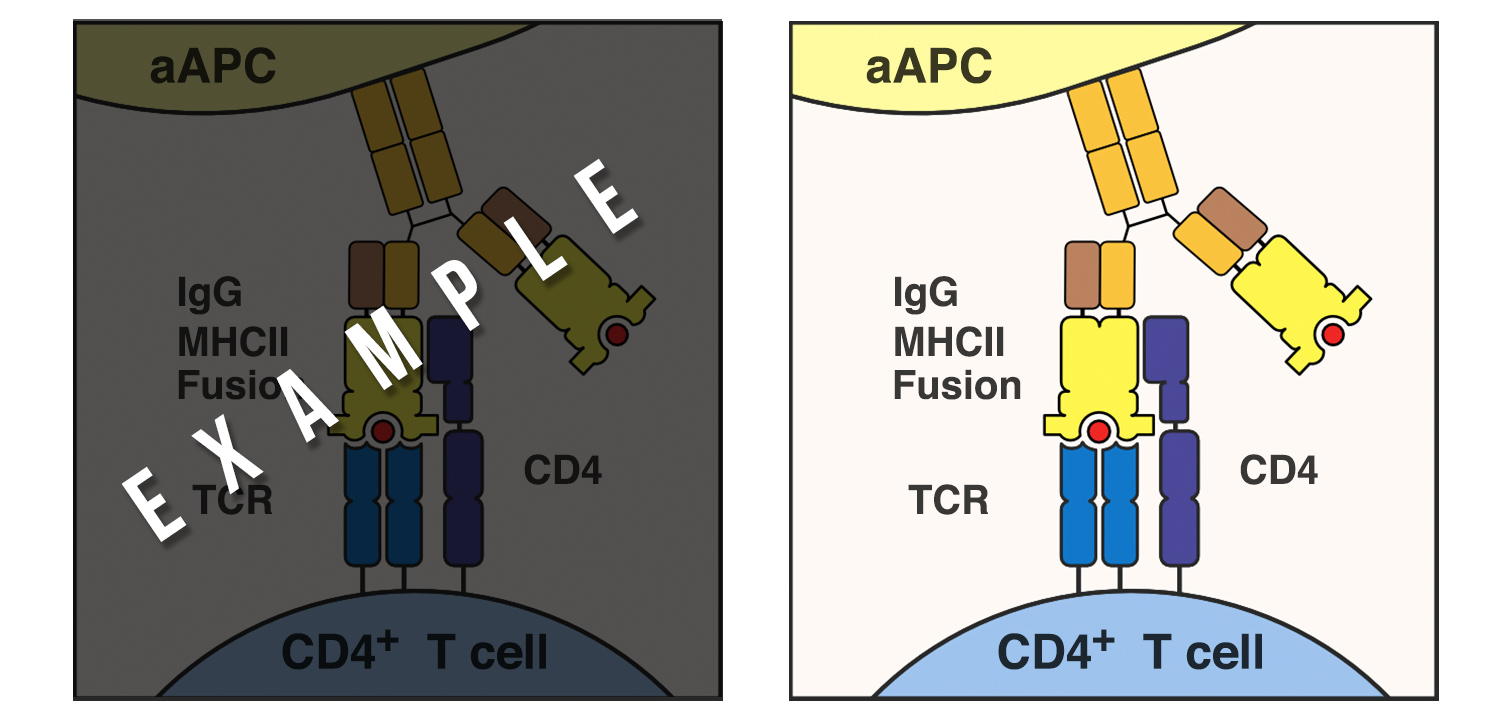
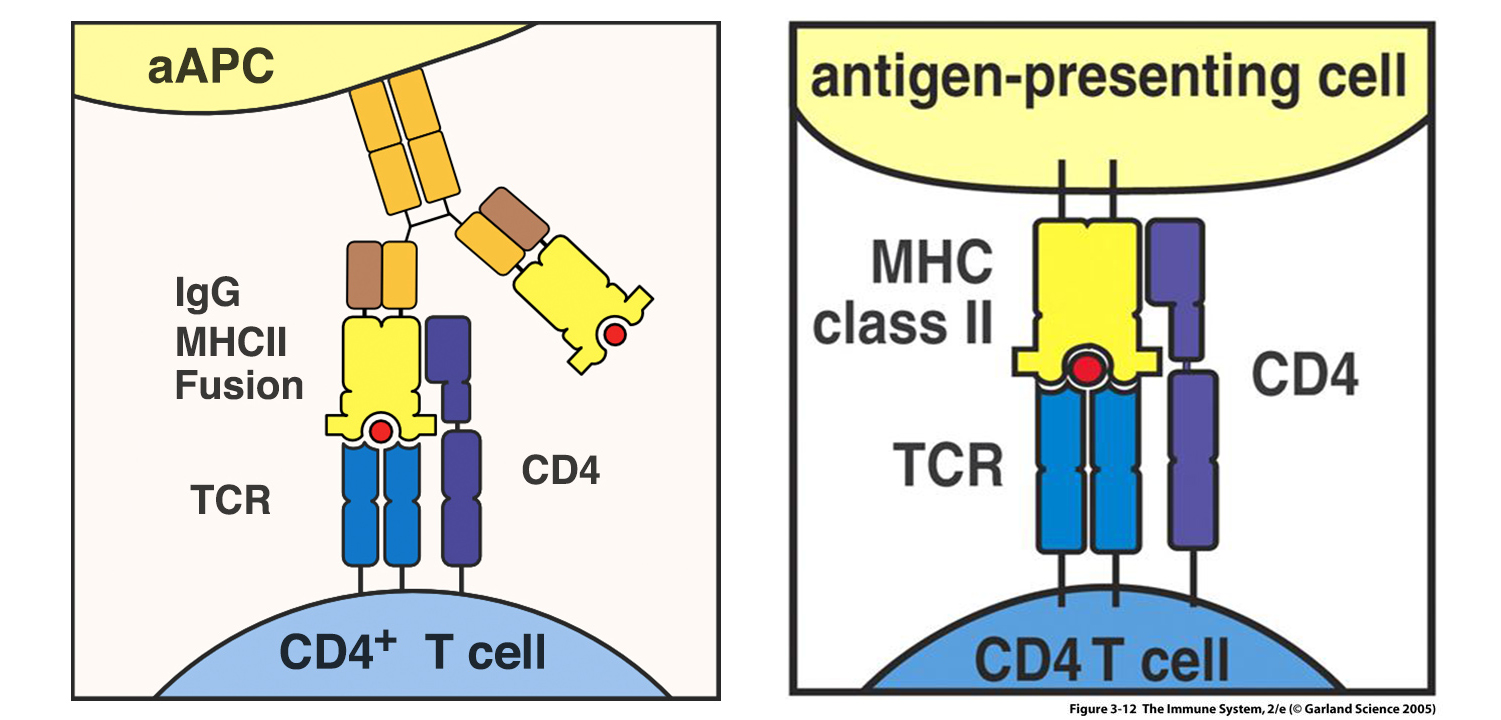
img updates

diff --git a/gradscience.html b/gradscience.html
@@ -76,13 +76,13 @@
 
               <p><b>Client:</b> Johns Hopkins Graduate Student - Baltimore, MD <br> <b>Project:</b> Thesis Research Graphics <br> <b>Role:</b> Graphic Design, Illustration <br> <b>Tools</b>: Pencil & Paper, Photoshop, Affinity Designer</p>
 
-							<img src="images/matt_images/Design/mm_cellReceptors.jpg" class= "center" alt="MHC Project" width="auto">
+							<img src="images/matt_images/Design/mm_projector.jpg" class= "center" alt="MHC Project" width="auto">
 
 							<br><p>The client in this case is a graduate student who required graphics for scientific publications and presentations. The graphics I designed were for several projects within the realm of fusion protein design and construction. Fusion protein production involves the use of genetic engineering techniques to “fuse” two or more gene fragments that are associated with unique functions. The combination of such entities results in a new and synthetic fusion protein that has a hybrid function (the function relating to the fragments it was constructed from). During this project, I was tasked with visually communicating complex scientific concepts with an emphasis on accuracy, clarity, and simplicity.</p>
 
               <img src="images/matt_images/Design/mm_mhc.jpg" class= "center" alt="MHC Project" width="auto">
 
-							<br><p>On the left we see an example of an MHC II/antibody fusion protein engaging and activating a T cell. On the right we see the conventional diagram for T cell engagement by MHC II (Janeway’s, 2009), which I referenced in order model the fusion protein according to the client’s specifications. Scientific language is a highly developed form of dialect intended to communicate biological elements to other scientists by using agreed upon symbols and shapes that may seem arbitrary to a layman but are highly recognizable to a scientist. For instance, notice the shape and number of domains on the MHC II vs the antibody vs the TCR surface receptor—these graphic elements communicate to a scientist the identity of these molecules even in absence of labeling.</p>
+							<br><p>On the left we see an example of an MHC II/antibody fusion protein engaging and activating a T cell. On the right we see the conventional diagram for T cell engagement by MHC II (Garland Science, 2005), which I referenced in order model the fusion protein according to the client’s specifications. Scientific language is a highly developed form of dialect intended to communicate biological elements to other scientists by using agreed upon symbols and shapes that may seem arbitrary to a layman but are highly recognizable to a scientist. For instance, notice the shape and number of domains on the MHC II vs the antibody vs the TCR surface receptor—these graphic elements communicate to a scientist the identity of these molecules even in absence of labeling.</p>
 
               <img src="images/matt_images/Design/mm_graftrejection.jpg" class= "center" alt="Graft Rejection" width="auto">
 
@@ -92,11 +92,15 @@
 
 							<br><p>This diagram portrays a tumor targeting drug delivery vehicle carrying a bispecific antibody therapeutic. The drug carrier is coated with PEG which is sensitive to the acidic tumor environment, resulting in the degradation of PEG and release of drug selectively in the tumor. For this diagram it was important to convey the drug release mechanism clearly without overwhelming the image with unnecessary graphics. In addition, the accuracy when representing elements in this image was important to the client. For instance, where a nanoparticle would typically be depicted as a circle—the structure of PLGA nanoparticle is actually mesh. Notice the blue linker between the CL domain and scFv, this linker along with all other linkers accurately represent the manner in which the antibody domains were linked.</p>
 
+							<img src="images/matt_images/Design/mm_2ab.jpg" class= "center" alt="Bispecific Antibodies" width="auto">
+
+							<p>Graphic depicting two different formats for bispecific antibodies.</p><br>
+
               <img src="images/matt_images/Design/mm_hounds.jpg" class= "center" alt="Biomotors" width="auto">
 
 							<br><p>These images were used for a presentation called Kamikaze Sperm, a project where sperm cells were engineered as drug carrying homing mechanisms that can track and attack cancer cells. I wanted to leverage my skills as an illustrator to depict these kamikaze sperm in a humorous way. My client used the illustration on the left as the title slide for the presentation, the cancer tracking “hound sperms” successfully disarmed the audience. The diagram to the right depicts the two fusion receptors that mediate the interaction between the engineered sperm cell and the cancer cell. Again, the shapes and color choice were very purposeful to convey both accuracy and visual organization. For instance, CCR6 is a seven-pass transmembrane receptor and as such should be graphically depicted as having seven membrane domains. Due to my client’s creativity and partially due to the success of my graphics, the presentation was voted first place out of dozens of student presentations.</p>
 
-              <img src="images/matt_images/Design/mm_pVectors.jpg" class= "center" alt="Fusion Proteins" width="auto">
+              <img src="images/matt_images/Design/mm_pVectors.png" class= "center" alt="Fusion Proteins" width="auto">
 
 							<br><p>Here we see vector assets for my client’s thesis project. [a-f] are fusion proteins, with MHCs in warm colors and dimerization domains in cold colors. [g-j] represent different types of T cells, each phenotype is coupled with its associated transcription factor. [k-n] depict nanoparticles mounted with different antibodies.</p>
 
